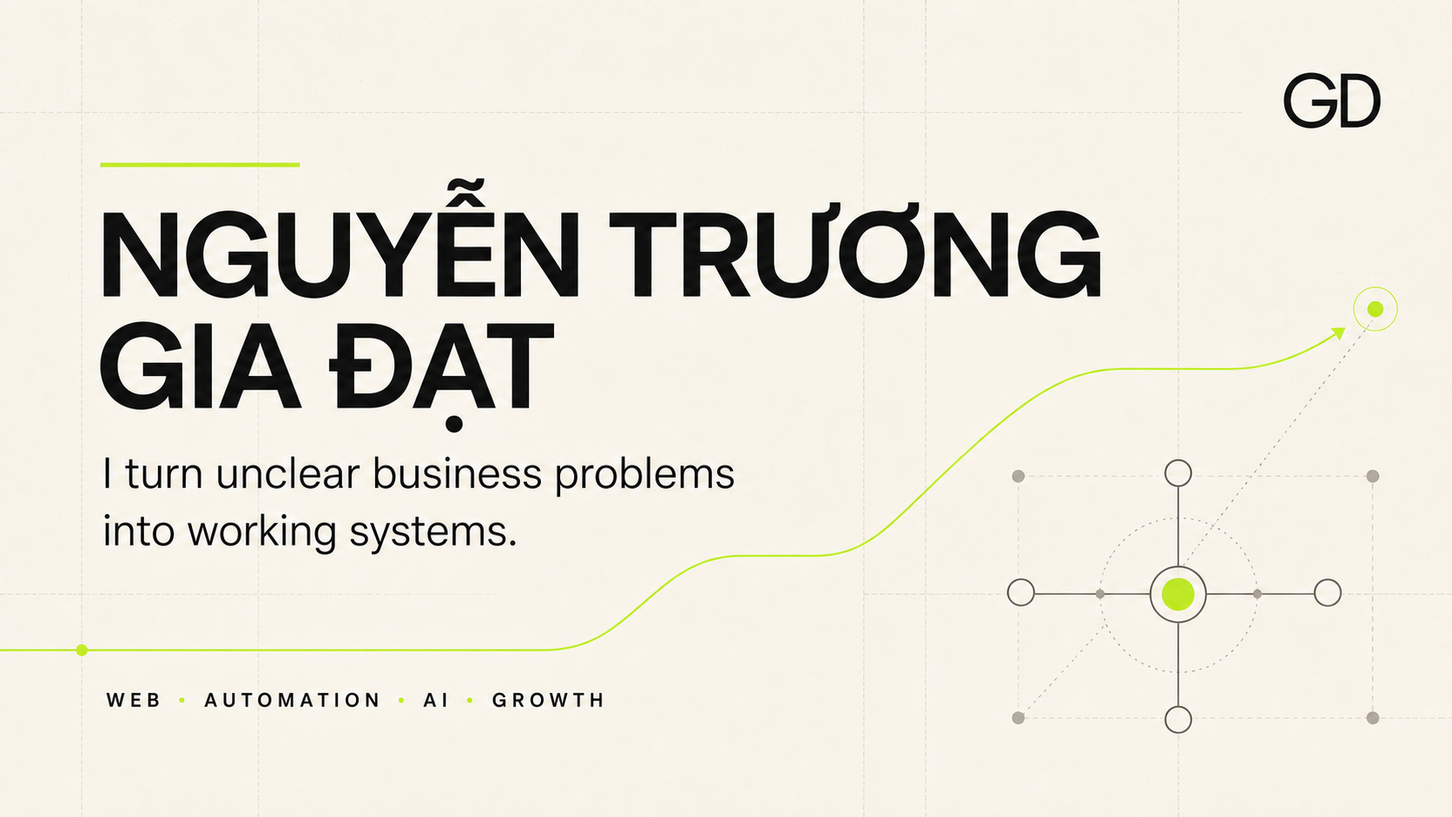
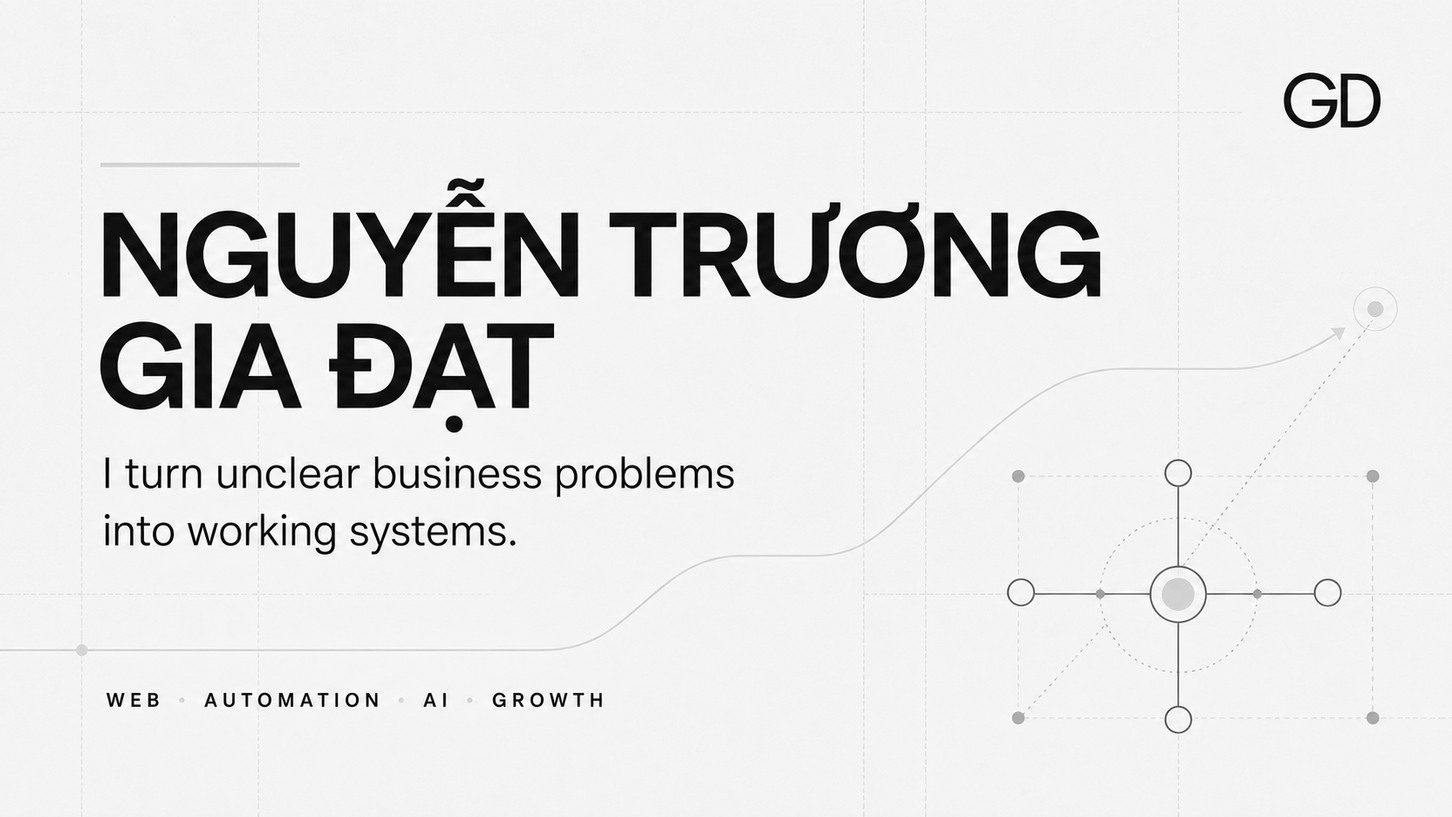
Adopt minimal black and white design

diff --git a/index.html b/index.html
@@ -1,4 +1,4 @@
-<!DOCTYPE html><html lang="en"><head><meta charSet="utf-8"/><meta name="viewport" content="width=device-width, initial-scale=1"/><link rel="stylesheet" href="/nguyen-truong-gia-dat-portfolio/assets/index-DhVf_CTk.css" data-rsc-css-href="/nguyen-truong-gia-dat-portfolio/assets/index-DhVf_CTk.css" data-precedence="vite-rsc/importer-resources"/><link rel="modulepreload" href="/nguyen-truong-gia-dat-portfolio/assets/layout-segment-context-wyK49Q3-.js" crossorigin=""/><link rel="modulepreload" href="/nguyen-truong-gia-dat-portfolio/assets/rolldown-runtime-S-ySWqyJ.js" crossorigin=""/><link rel="modulepreload" href="/nguyen-truong-gia-dat-portfolio/assets/index-BBroVd8O.js" crossorigin=""/><link rel="modulepreload" href="/nguyen-truong-gia-dat-portfolio/assets/framework-DjPHiq1u.js" crossorigin=""/><link rel="modulepreload" href="/nguyen-truong-gia-dat-portfolio/assets/page-Drv4G3Ub.js" crossorigin=""/><title>Nguyễn Trương Gia Đạt | Multidisciplinary Builder</title><meta name="description" content="Web, automation, AI systems and international growth. A portfolio of working systems built from unclear business problems."/><meta property="og:title" content="Nguyễn Trương Gia Đạt | Multidisciplinary Builder"/><meta property="og:description" content="I turn unclear business problems into working systems."/><meta property="og:type" content="website"/><meta property="og:image" content="https://127.0.0.1:3001/nguyen-truong-gia-dat-portfolio/og.png"/><meta property="og:image:width" content="1680"/><meta property="og:image:height" content="945"/><meta property="og:image:alt" content="Nguyễn Trương Gia Đạt portfolio"/><meta name="twitter:card" content="summary_large_image"/><meta name="twitter:title" content="Nguyễn Trương Gia Đạt | Multidisciplinary Builder"/><meta name="twitter:description" content="I turn unclear business problems into working systems."/><meta name="twitter:image" content="https://127.0.0.1:3001/nguyen-truong-gia-dat-portfolio/og.png"/><link rel="shortcut icon" href="/nguyen-truong-gia-dat-portfolio/favicon.svg"/><link rel="icon" href="/nguyen-truong-gia-dat-portfolio/favicon.svg"/><script>self.__VINEXT_RSC_PARAMS__={}</script><script>self.__VINEXT_RSC_NAV__={"pathname":"/","searchParams":[]}</script><link rel="modulepreload" href="/nguyen-truong-gia-dat-portfolio/assets/index-BBroVd8O.js" />
+<!DOCTYPE html><html lang="en"><head><meta charSet="utf-8"/><meta name="viewport" content="width=device-width, initial-scale=1"/><link rel="stylesheet" href="/nguyen-truong-gia-dat-portfolio/assets/index-DS1PXMX2.css" data-rsc-css-href="/nguyen-truong-gia-dat-portfolio/assets/index-DS1PXMX2.css" data-precedence="vite-rsc/importer-resources"/><link rel="modulepreload" href="/nguyen-truong-gia-dat-portfolio/assets/layout-segment-context-wyK49Q3-.js" crossorigin=""/><link rel="modulepreload" href="/nguyen-truong-gia-dat-portfolio/assets/rolldown-runtime-S-ySWqyJ.js" crossorigin=""/><link rel="modulepreload" href="/nguyen-truong-gia-dat-portfolio/assets/index-BBroVd8O.js" crossorigin=""/><link rel="modulepreload" href="/nguyen-truong-gia-dat-portfolio/assets/framework-DjPHiq1u.js" crossorigin=""/><link rel="modulepreload" href="/nguyen-truong-gia-dat-portfolio/assets/page-Drv4G3Ub.js" crossorigin=""/><title>Nguyễn Trương Gia Đạt | Multidisciplinary Builder</title><meta name="description" content="Web, automation, AI systems and international growth. A portfolio of working systems built from unclear business problems."/><meta property="og:title" content="Nguyễn Trương Gia Đạt | Multidisciplinary Builder"/><meta property="og:description" content="I turn unclear business problems into working systems."/><meta property="og:type" content="website"/><meta property="og:image" content="https://127.0.0.1:3001/nguyen-truong-gia-dat-portfolio/og.png"/><meta property="og:image:width" content="1680"/><meta property="og:image:height" content="945"/><meta property="og:image:alt" content="Nguyễn Trương Gia Đạt portfolio"/><meta name="twitter:card" content="summary_large_image"/><meta name="twitter:title" content="Nguyễn Trương Gia Đạt | Multidisciplinary Builder"/><meta name="twitter:description" content="I turn unclear business problems into working systems."/><meta name="twitter:image" content="https://127.0.0.1:3001/nguyen-truong-gia-dat-portfolio/og.png"/><link rel="shortcut icon" href="/nguyen-truong-gia-dat-portfolio/favicon.svg"/><link rel="icon" href="/nguyen-truong-gia-dat-portfolio/favicon.svg"/><script>self.__VINEXT_RSC_PARAMS__={}</script><script>self.__VINEXT_RSC_NAV__={"pathname":"/","searchParams":[]}</script><link rel="modulepreload" href="/nguyen-truong-gia-dat-portfolio/assets/index-BBroVd8O.js" />
 <link rel="preload" href="/nguyen-truong-gia-dat-portfolio/assets/_vinext_fonts/manrope-76eca2803f7f/manrope-37facb2a.woff2" as="font" type="font/woff2" crossorigin />
 <link rel="preload" href="/nguyen-truong-gia-dat-portfolio/assets/_vinext_fonts/manrope-76eca2803f7f/manrope-c9a5f13c.woff2" as="font" type="font/woff2" crossorigin />
 <link rel="preload" href="/nguyen-truong-gia-dat-portfolio/assets/_vinext_fonts/manrope-76eca2803f7f/manrope-f00fa027.woff2" as="font" type="font/woff2" crossorigin />
@@ -129,4 +129,4 @@
 
 .__variable_space_mono_13po1kf { --font-space-mono: 'Space Mono', sans-serif; }
 </style>
-</head><body class="__variable_manrope_0030lut __variable_space_mono_13po1kf"><main><header class="site-header"><a class="monogram" href="#top" aria-label="Nguyễn Trương Gia Đạt home">GD</a><nav aria-label="Primary navigation"><a href="#work">Work</a><a href="#capabilities">Capabilities</a><a href="#approach">Approach</a><a href="#contact">Contact</a></nav><div class="language-control"><button type="button" class="language-button" aria-expanded="false" aria-label="Language">EN<!-- --> <span aria-hidden="true">+</span></button></div></header><section class="hero" id="top"><div class="hero-grid" aria-hidden="true"></div><div class="hero-content reveal"><p class="eyebrow"><span class="status-dot"></span>MULTIDISCIPLINARY BUILDER · VIETNAM</p><h1>I turn unclear business problems into working systems.</h1><p class="hero-intro">I work where business, technology and communication meet, building the websites, automations and AI workflows that move ideas into daily operations.</p><div class="hero-actions"><a class="button button-dark" href="#work">Explore selected work<span aria-hidden="true">↘</span></a><a class="text-link" href="#capabilities">See my capabilities<span aria-hidden="true">↓</span></a></div></div><div class="system-map reveal delay-2" aria-label="Business need to useful system to measurable learning"><div class="system-node"><span>01</span><p>Business need</p><i aria-hidden="true"></i></div><div class="system-node"><span>02</span><p>Useful system</p><i aria-hidden="true"></i></div><div class="system-node"><span>03</span><p>Measurable learning</p></div></div><a class="scroll-hint" href="#profile"><span aria-hidden="true"></span>Scroll to explore</a></section><section class="profile section" id="profile"><div class="section-label">PROFILE</div><div class="profile-copy"><h2>Not one title. One consistent way of creating value.</h2><p>My range is the point. I can understand a commercial goal, map the system behind it, learn the tools required and carry the work through to a usable result.</p><div class="tag-list"><span>Web products</span><span>Automation</span><span>AI systems</span><span>International growth</span><span>Technical content</span></div></div><div class="profile-mark" aria-hidden="true"><span>G</span><span>D</span></div></section><section class="work section" id="work"><div class="section-heading"><p class="section-label">INDEPENDENT WORK</p><h2>Evidence over adjectives.</h2><p>A selection of independent systems and experiments that show how I think, learn and build.</p></div><div class="work-list"><article class="work-item"><div class="work-number">01</div><div class="work-main"><h3>A multilingual digital experience that speaks clearly</h3><p>Designed a responsive multilingual experience that organizes complex information, supports content discovery and creates a clear path from first visit to meaningful action.</p><div class="work-skills"><span>Web strategy</span><span>Information architecture</span><span>Localization</span><span>SEO</span><span>Performance</span></div></div><div class="work-result"><span>OUTCOME</span><p>Complex information becomes clear, navigable and useful across languages and devices.</p><small>Independent case study · details coming next</small></div></article><article class="work-item"><div class="work-number">02</div><div class="work-main"><h3>Lead intelligence as a repeatable workflow</h3><p>Designed workflows for discovering, evaluating and organizing international research, then routing the right context across Notion and n8n with clear states and safety checks.</p><div class="work-skills"><span>n8n</span><span>Notion</span><span>Research</span><span>Data enrichment</span><span>Workflow logic</span></div></div><div class="work-result"><span>OUTCOME</span><p>Research and follow-up become a system, not a collection of one-off tasks.</p><small>Private system · walkthrough available</small></div></article><article class="work-item"><div class="work-number">03</div><div class="work-main"><h3>AI skills built around real work</h3><p>Created reusable AI workflows for research, verification, content operations and knowledge-backed learning, with structured prompts, approval states, checkpoints and recovery paths.</p><div class="work-skills"><span>AI workflow</span><span>Prompt systems</span><span>Knowledge design</span><span>Quality gates</span><span>Notion AI</span></div></div><div class="work-result"><span>OUTCOME</span><p>AI becomes a dependable operating layer instead of an isolated chat window.</p><small>Private system · walkthrough available</small></div></article><article class="work-item"><div class="work-number">04</div><div class="work-main"><h3>Technical stories people can understand</h3><p>Translated industrial products and operational knowledge into multilingual documents, product videos, visual dashboards and content that works across cultures and channels.</p><div class="work-skills"><span>Product video</span><span>Technical writing</span><span>Localization</span><span>Dashboard</span><span>Content systems</span></div></div><div class="work-result"><span>OUTCOME</span><p>Complex information becomes easier to trust, share and act on.</p><small>Selected samples coming next</small></div></article></div></section><section class="capabilities section" id="capabilities"><div class="section-heading compact"><p class="section-label">CAPABILITIES</p><h2>From first question to working result.</h2></div><div class="capability-grid"><article><span>01</span><h3>Product &amp; Web</h3><p>Discovery, structure, responsive interfaces, multilingual systems, SEO and performance.</p></article><article><span>02</span><h3>Automation</h3><p>Workflow mapping, n8n, Notion, routing logic, error handling and handoff.</p></article><article><span>03</span><h3>AI Systems</h3><p>Reusable AI skills, prompt architecture, knowledge workflows, evaluation and recovery.</p></article><article><span>04</span><h3>Growth Operations</h3><p>International prospect research, qualification, outreach systems and market learning.</p></article><article><span>05</span><h3>Content &amp; Localization</h3><p>Product storytelling, video, technical documents and multilingual communication.</p></article><article><span>06</span><h3>Systems Thinking</h3><p>Connecting tools, people and information into a process that can keep improving.</p></article></div><div class="tool-strip"><p>TOOLS I USE AS BUILDING BLOCKS</p><div><span>Notion</span><span>n8n</span><span>ChatGPT</span><span>Codex</span><span>Netlify</span><span>Excel</span><span>CapCut</span><span>Canva</span><span>Blender</span></div></div></section><section class="approach section" id="approach"><div class="approach-intro"><p class="section-label">HOW I WORK</p><h2>Curious enough to learn. Practical enough to ship.</h2></div><div class="steps"><article><span>01</span><div><h3>Find the real problem</h3><p>Start with the outcome, constraints and people involved before choosing a tool.</p></div></article><article><span>02</span><div><h3>Map the system</h3><p>Make the information, decisions, handoffs and failure points visible.</p></div></article><article><span>03</span><div><h3>Build the smallest useful version</h3><p>Create something real enough to use, observe and improve quickly.</p></div></article><article><span>04</span><div><h3>Make it repeatable</h3><p>Document the logic, add safeguards and leave the system easier to operate.</p></div></article></div><blockquote>I do not need to know every answer at the start. I need to know how to find the right answer and turn it into something useful.</blockquote></section><section class="contact section" id="contact"><p class="section-label">LET&#x27;S TALK</p><h2>Bring me the problem that does not fit neatly into one job description.</h2><p class="contact-body">I am open to global opportunities, ambitious teams and projects that need someone who can connect strategy with hands-on execution.</p><div class="contact-actions"><span class="pending-contact"><i aria-hidden="true"></i>Contact details will be added in the next update</span><a class="button button-light" href="#work">Review selected work<span aria-hidden="true">↑</span></a></div><footer><div class="footer-name"><strong>NGUYỄN TRƯƠNG GIA ĐẠT</strong><span>Designed as a living proof of work.</span></div><span>© <!-- -->2026</span><a href="#top">TOP ↑</a></footer></section></main><script id="_R_">import("/nguyen-truong-gia-dat-portfolio/assets/index-BBroVd8O.js")</script></body></html><script>self.__VINEXT_RSC_CHUNKS__=self.__VINEXT_RSC_CHUNKS__||[];self.__VINEXT_RSC_CHUNKS__.push("2:I[\"8c0f216c4604\",[],\"Children\",1]\n3:I[\"15c18cfaeeff\",[],\"LayoutSegmentProvider\",1]\n4:I[\"8c0f216c4604\",[],\"Slot\",1]\n5:I[\"593f344dc510\",[],\"RedirectBoundary\",1]\n:HL[\"/nguyen-truong-gia-dat-portfolio/assets/index-DhVf_CTk.css\",\"style\"]\n")</script><script>self.__VINEXT_RSC_CHUNKS__=self.__VINEXT_RSC_CHUNKS__||[];self.__VINEXT_RSC_CHUNKS__.push("0:{\"__route\":\"route:/\",\"__interceptionContext\":null,\"__layoutIds\":[\"layout:/\"],\"__rootLayout\":\"/\",\"page:/\":\"$L1\",\"layout:/\":[[[[\"$\",\"link\",\"css:/nguyen-truong-gia-dat-portfolio/assets/index-DhVf_CTk.css\",{\"rel\":\"stylesheet\",\"precedence\":\"vite-rsc/importer-resources\",\"href\":\"/nguyen-truong-gia-dat-portfolio/assets/index-DhVf_CTk.css\",\"data-rsc-css-href\":\"/nguyen-truong-gia-dat-portfolio/assets/index-DhVf_CTk.css\"}],\"$undefined\"],[\"$\",\"html\",null,{\"lang\":\"en\",\"children\":[\"$\",\"body\",null,{\"className\":\"__variable_manrope_0030lut __variable_space_mono_13po1kf\",\"children\":[\"$\",\"$L2\",null,{}]}]}]],null],\"route:/\":[[[\"$\",\"meta\",null,{\"charSet\":\"utf-8\"}],[[\"$\",\"title\",\"0\",{\"children\":\"Nguyễn Trương Gia Đạt | Multidisciplinary Builder\"}],[\"$\",\"meta\",\"1\",{\"name\":\"description\",\"content\":\"Web, automation, AI systems and international growth. A portfolio of working systems built from unclear business problems.\"}],[\"$\",\"meta\",\"2\",{\"property\":\"og:title\",\"content\":\"Nguyễn Trương Gia Đạt | Multidisciplinary Builder\"}],[\"$\",\"meta\",\"3\",{\"property\":\"og:description\",\"content\":\"I turn unclear business problems into working systems.\"}],[\"$\",\"meta\",\"4\",{\"property\":\"og:type\",\"content\":\"website\"}],[\"$\",\"meta\",\"5\",{\"property\":\"og:image\",\"content\":\"https://127.0.0.1:3001/nguyen-truong-gia-dat-portfolio/og.png\"}],[\"$\",\"meta\",\"6\",{\"property\":\"og:image:width\",\"content\":\"1680\"}],[\"$\",\"meta\",\"7\",{\"property\":\"og:image:height\",\"content\":\"945\"}],[\"$\",\"meta\",\"8\",{\"property\":\"og:image:alt\",\"content\":\"Nguyễn Trương Gia Đạt portfolio\"}],[\"$\",\"meta\",\"9\",{\"name\":\"twitter:card\",\"content\":\"summary_large_image\"}],[\"$\",\"meta\",\"10\",{\"name\":\"twitter:title\",\"content\":\"Nguyễn Trương Gia Đạt | Multidisciplinary Builder\"}],[\"$\",\"meta\",\"11\",{\"name\":\"twitter:description\",\"content\":\"I turn unclear business problems into working systems.\"}],[\"$\",\"meta\",\"12\",{\"name\":\"twitter:image\",\"content\":\"https://127.0.0.1:3001/nguyen-truong-gia-dat-portfolio/og.png\"}],[\"$\",\"link\",\"13\",{\"rel\":\"shortcut icon\",\"href\":\"/nguyen-truong-gia-dat-portfolio/favicon.svg\"}],[\"$\",\"link\",\"14\",{\"rel\":\"icon\",\"href\":\"/nguyen-truong-gia-dat-portfolio/favicon.svg\"}]],[[\"$\",\"meta\",\"0\",{\"name\":\"viewport\",\"content\":\"width=device-width, initial-scale=1\"}]]],[\"$\",\"$L3\",null,{\"segmentMap\":{\"children\":[]},\"children\":[\"$\",\"$L4\",null,{\"id\":\"layout:/\",\"parallelSlots\":\"$undefined\",\"children\":[\"$\",\"$L5\",null,{\"children\":[\"$\",\"$L3\",null,{\"segmentMap\":{\"children\":[]},\"children\":[\"$\",\"$L4\",null,{\"id\":\"page:/\"}]}]}]}]}]],\"__layoutFlags\":{\"layout:/\":\"s\"},\"__artifactCompatibility\":{\"schemaVersion\":1,\"graphVersion\":\"app-route-graph:4uhn5s1wvoptc\",\"deploymentVersion\":\"7c49f27f-f140-4821-b58b-c3c265be1d37\",\"appElementsSchemaVersion\":1,\"rscPayloadSchemaVersion\":1,\"rootBoundaryId\":\"/\",\"renderEpoch\":null}}\n")</script><script>self.__VINEXT_RSC_CHUNKS__=self.__VINEXT_RSC_CHUNKS__||[];self.__VINEXT_RSC_CHUNKS__.push("6:I[\"6efdf509a785\",[],\"default\",1]\n1:[\"$\",\"$L6\",null,{\"params\":\"$@7\",\"searchParams\":\"$@8\"}]\n")</script><script>self.__VINEXT_RSC_CHUNKS__=self.__VINEXT_RSC_CHUNKS__||[];self.__VINEXT_RSC_CHUNKS__.push("7:{}\n8:{}\n")</script><script>self.__VINEXT_RSC_DONE__=true</script>
+</head><body class="__variable_manrope_0030lut __variable_space_mono_13po1kf"><main><header class="site-header"><a class="monogram" href="#top" aria-label="Nguyễn Trương Gia Đạt home">GD</a><nav aria-label="Primary navigation"><a href="#work">Work</a><a href="#capabilities">Capabilities</a><a href="#approach">Approach</a><a href="#contact">Contact</a></nav><div class="language-control"><button type="button" class="language-button" aria-expanded="false" aria-label="Language">EN<!-- --> <span aria-hidden="true">+</span></button></div></header><section class="hero" id="top"><div class="hero-grid" aria-hidden="true"></div><div class="hero-content reveal"><p class="eyebrow"><span class="status-dot"></span>MULTIDISCIPLINARY BUILDER · VIETNAM</p><h1>I turn unclear business problems into working systems.</h1><p class="hero-intro">I work where business, technology and communication meet, building the websites, automations and AI workflows that move ideas into daily operations.</p><div class="hero-actions"><a class="button button-dark" href="#work">Explore selected work<span aria-hidden="true">↘</span></a><a class="text-link" href="#capabilities">See my capabilities<span aria-hidden="true">↓</span></a></div></div><div class="system-map reveal delay-2" aria-label="Business need to useful system to measurable learning"><div class="system-node"><span>01</span><p>Business need</p><i aria-hidden="true"></i></div><div class="system-node"><span>02</span><p>Useful system</p><i aria-hidden="true"></i></div><div class="system-node"><span>03</span><p>Measurable learning</p></div></div><a class="scroll-hint" href="#profile"><span aria-hidden="true"></span>Scroll to explore</a></section><section class="profile section" id="profile"><div class="section-label">PROFILE</div><div class="profile-copy"><h2>Not one title. One consistent way of creating value.</h2><p>My range is the point. I can understand a commercial goal, map the system behind it, learn the tools required and carry the work through to a usable result.</p><div class="tag-list"><span>Web products</span><span>Automation</span><span>AI systems</span><span>International growth</span><span>Technical content</span></div></div><div class="profile-mark" aria-hidden="true"><span>G</span><span>D</span></div></section><section class="work section" id="work"><div class="section-heading"><p class="section-label">INDEPENDENT WORK</p><h2>Evidence over adjectives.</h2><p>A selection of independent systems and experiments that show how I think, learn and build.</p></div><div class="work-list"><article class="work-item"><div class="work-number">01</div><div class="work-main"><h3>A multilingual digital experience that speaks clearly</h3><p>Designed a responsive multilingual experience that organizes complex information, supports content discovery and creates a clear path from first visit to meaningful action.</p><div class="work-skills"><span>Web strategy</span><span>Information architecture</span><span>Localization</span><span>SEO</span><span>Performance</span></div></div><div class="work-result"><span>OUTCOME</span><p>Complex information becomes clear, navigable and useful across languages and devices.</p><small>Independent case study · details coming next</small></div></article><article class="work-item"><div class="work-number">02</div><div class="work-main"><h3>Lead intelligence as a repeatable workflow</h3><p>Designed workflows for discovering, evaluating and organizing international research, then routing the right context across Notion and n8n with clear states and safety checks.</p><div class="work-skills"><span>n8n</span><span>Notion</span><span>Research</span><span>Data enrichment</span><span>Workflow logic</span></div></div><div class="work-result"><span>OUTCOME</span><p>Research and follow-up become a system, not a collection of one-off tasks.</p><small>Private system · walkthrough available</small></div></article><article class="work-item"><div class="work-number">03</div><div class="work-main"><h3>AI skills built around real work</h3><p>Created reusable AI workflows for research, verification, content operations and knowledge-backed learning, with structured prompts, approval states, checkpoints and recovery paths.</p><div class="work-skills"><span>AI workflow</span><span>Prompt systems</span><span>Knowledge design</span><span>Quality gates</span><span>Notion AI</span></div></div><div class="work-result"><span>OUTCOME</span><p>AI becomes a dependable operating layer instead of an isolated chat window.</p><small>Private system · walkthrough available</small></div></article><article class="work-item"><div class="work-number">04</div><div class="work-main"><h3>Technical stories people can understand</h3><p>Translated industrial products and operational knowledge into multilingual documents, product videos, visual dashboards and content that works across cultures and channels.</p><div class="work-skills"><span>Product video</span><span>Technical writing</span><span>Localization</span><span>Dashboard</span><span>Content systems</span></div></div><div class="work-result"><span>OUTCOME</span><p>Complex information becomes easier to trust, share and act on.</p><small>Selected samples coming next</small></div></article></div></section><section class="capabilities section" id="capabilities"><div class="section-heading compact"><p class="section-label">CAPABILITIES</p><h2>From first question to working result.</h2></div><div class="capability-grid"><article><span>01</span><h3>Product &amp; Web</h3><p>Discovery, structure, responsive interfaces, multilingual systems, SEO and performance.</p></article><article><span>02</span><h3>Automation</h3><p>Workflow mapping, n8n, Notion, routing logic, error handling and handoff.</p></article><article><span>03</span><h3>AI Systems</h3><p>Reusable AI skills, prompt architecture, knowledge workflows, evaluation and recovery.</p></article><article><span>04</span><h3>Growth Operations</h3><p>International prospect research, qualification, outreach systems and market learning.</p></article><article><span>05</span><h3>Content &amp; Localization</h3><p>Product storytelling, video, technical documents and multilingual communication.</p></article><article><span>06</span><h3>Systems Thinking</h3><p>Connecting tools, people and information into a process that can keep improving.</p></article></div><div class="tool-strip"><p>TOOLS I USE AS BUILDING BLOCKS</p><div><span>Notion</span><span>n8n</span><span>ChatGPT</span><span>Codex</span><span>Netlify</span><span>Excel</span><span>CapCut</span><span>Canva</span><span>Blender</span></div></div></section><section class="approach section" id="approach"><div class="approach-intro"><p class="section-label">HOW I WORK</p><h2>Curious enough to learn. Practical enough to ship.</h2></div><div class="steps"><article><span>01</span><div><h3>Find the real problem</h3><p>Start with the outcome, constraints and people involved before choosing a tool.</p></div></article><article><span>02</span><div><h3>Map the system</h3><p>Make the information, decisions, handoffs and failure points visible.</p></div></article><article><span>03</span><div><h3>Build the smallest useful version</h3><p>Create something real enough to use, observe and improve quickly.</p></div></article><article><span>04</span><div><h3>Make it repeatable</h3><p>Document the logic, add safeguards and leave the system easier to operate.</p></div></article></div><blockquote>I do not need to know every answer at the start. I need to know how to find the right answer and turn it into something useful.</blockquote></section><section class="contact section" id="contact"><p class="section-label">LET&#x27;S TALK</p><h2>Bring me the problem that does not fit neatly into one job description.</h2><p class="contact-body">I am open to global opportunities, ambitious teams and projects that need someone who can connect strategy with hands-on execution.</p><div class="contact-actions"><span class="pending-contact"><i aria-hidden="true"></i>Contact details will be added in the next update</span><a class="button button-light" href="#work">Review selected work<span aria-hidden="true">↑</span></a></div><footer><div class="footer-name"><strong>NGUYỄN TRƯƠNG GIA ĐẠT</strong><span>Designed as a living proof of work.</span></div><span>© <!-- -->2026</span><a href="#top">TOP ↑</a></footer></section></main><script id="_R_">import("/nguyen-truong-gia-dat-portfolio/assets/index-BBroVd8O.js")</script></body></html><script>self.__VINEXT_RSC_CHUNKS__=self.__VINEXT_RSC_CHUNKS__||[];self.__VINEXT_RSC_CHUNKS__.push("2:I[\"8c0f216c4604\",[],\"Children\",1]\n3:I[\"15c18cfaeeff\",[],\"LayoutSegmentProvider\",1]\n4:I[\"8c0f216c4604\",[],\"Slot\",1]\n5:I[\"593f344dc510\",[],\"RedirectBoundary\",1]\n:HL[\"/nguyen-truong-gia-dat-portfolio/assets/index-DS1PXMX2.css\",\"style\"]\n")</script><script>self.__VINEXT_RSC_CHUNKS__=self.__VINEXT_RSC_CHUNKS__||[];self.__VINEXT_RSC_CHUNKS__.push("0:{\"__route\":\"route:/\",\"__interceptionContext\":null,\"__layoutIds\":[\"layout:/\"],\"__rootLayout\":\"/\",\"page:/\":\"$L1\",\"layout:/\":[[[[\"$\",\"link\",\"css:/nguyen-truong-gia-dat-portfolio/assets/index-DS1PXMX2.css\",{\"rel\":\"stylesheet\",\"precedence\":\"vite-rsc/importer-resources\",\"href\":\"/nguyen-truong-gia-dat-portfolio/assets/index-DS1PXMX2.css\",\"data-rsc-css-href\":\"/nguyen-truong-gia-dat-portfolio/assets/index-DS1PXMX2.css\"}],\"$undefined\"],[\"$\",\"html\",null,{\"lang\":\"en\",\"children\":[\"$\",\"body\",null,{\"className\":\"__variable_manrope_0030lut __variable_space_mono_13po1kf\",\"children\":[\"$\",\"$L2\",null,{}]}]}]],null],\"route:/\":[[[\"$\",\"meta\",null,{\"charSet\":\"utf-8\"}],[[\"$\",\"title\",\"0\",{\"children\":\"Nguyễn Trương Gia Đạt | Multidisciplinary Builder\"}],[\"$\",\"meta\",\"1\",{\"name\":\"description\",\"content\":\"Web, automation, AI systems and international growth. A portfolio of working systems built from unclear business problems.\"}],[\"$\",\"meta\",\"2\",{\"property\":\"og:title\",\"content\":\"Nguyễn Trương Gia Đạt | Multidisciplinary Builder\"}],[\"$\",\"meta\",\"3\",{\"property\":\"og:description\",\"content\":\"I turn unclear business problems into working systems.\"}],[\"$\",\"meta\",\"4\",{\"property\":\"og:type\",\"content\":\"website\"}],[\"$\",\"meta\",\"5\",{\"property\":\"og:image\",\"content\":\"https://127.0.0.1:3001/nguyen-truong-gia-dat-portfolio/og.png\"}],[\"$\",\"meta\",\"6\",{\"property\":\"og:image:width\",\"content\":\"1680\"}],[\"$\",\"meta\",\"7\",{\"property\":\"og:image:height\",\"content\":\"945\"}],[\"$\",\"meta\",\"8\",{\"property\":\"og:image:alt\",\"content\":\"Nguyễn Trương Gia Đạt portfolio\"}],[\"$\",\"meta\",\"9\",{\"name\":\"twitter:card\",\"content\":\"summary_large_image\"}],[\"$\",\"meta\",\"10\",{\"name\":\"twitter:title\",\"content\":\"Nguyễn Trương Gia Đạt | Multidisciplinary Builder\"}],[\"$\",\"meta\",\"11\",{\"name\":\"twitter:description\",\"content\":\"I turn unclear business problems into working systems.\"}],[\"$\",\"meta\",\"12\",{\"name\":\"twitter:image\",\"content\":\"https://127.0.0.1:3001/nguyen-truong-gia-dat-portfolio/og.png\"}],[\"$\",\"link\",\"13\",{\"rel\":\"shortcut icon\",\"href\":\"/nguyen-truong-gia-dat-portfolio/favicon.svg\"}],[\"$\",\"link\",\"14\",{\"rel\":\"icon\",\"href\":\"/nguyen-truong-gia-dat-portfolio/favicon.svg\"}]],[[\"$\",\"meta\",\"0\",{\"name\":\"viewport\",\"content\":\"width=device-width, initial-scale=1\"}]]],[\"$\",\"$L3\",null,{\"segmentMap\":{\"children\":[]},\"children\":[\"$\",\"$L4\",null,{\"id\":\"layout:/\",\"parallelSlots\":\"$undefined\",\"children\":[\"$\",\"$L5\",null,{\"children\":[\"$\",\"$L3\",null,{\"segmentMap\":{\"children\":[]},\"children\":[\"$\",\"$L4\",null,{\"id\":\"page:/\"}]}]}]}]}]],\"__layoutFlags\":{\"layout:/\":\"s\"},\"__artifactCompatibility\":{\"schemaVersion\":1,\"graphVersion\":\"app-route-graph:4uhn5s1wvoptc\",\"deploymentVersion\":\"36ba3c37-deed-428f-a783-380d351935eb\",\"appElementsSchemaVersion\":1,\"rscPayloadSchemaVersion\":1,\"rootBoundaryId\":\"/\",\"renderEpoch\":null}}\n")</script><script>self.__VINEXT_RSC_CHUNKS__=self.__VINEXT_RSC_CHUNKS__||[];self.__VINEXT_RSC_CHUNKS__.push("6:I[\"6efdf509a785\",[],\"default\",1]\n1:[\"$\",\"$L6\",null,{\"params\":\"$@7\",\"searchParams\":\"$@8\"}]\n")</script><script>self.__VINEXT_RSC_CHUNKS__=self.__VINEXT_RSC_CHUNKS__||[];self.__VINEXT_RSC_CHUNKS__.push("7:{}\n8:{}\n")</script><script>self.__VINEXT_RSC_DONE__=true</script>

diff --git a/assets/index-DS1PXMX2.css b/assets/index-DS1PXMX2.css
@@ -1,0 +1,2 @@
+/*! tailwindcss v4.2.1 | MIT License | https://tailwindcss.com */
+@layer theme{:root,:host{--font-sans:ui-sans-serif, system-ui, sans-serif, "Apple Color Emoji", "Segoe UI Emoji", "Segoe UI Symbol", "Noto Color Emoji";--font-mono:ui-monospace, SFMono-Regular, Menlo, Monaco, Consolas, "Liberation Mono", "Courier New", monospace;--spacing:.25rem;--default-font-family:var(--font-sans);--default-mono-font-family:var(--font-mono)}}@layer base{*,:after,:before,::backdrop{box-sizing:border-box;border:0 solid;margin:0;padding:0}::file-selector-button{box-sizing:border-box;border:0 solid;margin:0;padding:0}html,:host{-webkit-text-size-adjust:100%;tab-size:4;line-height:1.5;font-family:var(--default-font-family,ui-sans-serif, system-ui, sans-serif, "Apple Color Emoji", "Segoe UI Emoji", "Segoe UI Symbol", "Noto Color Emoji");font-feature-settings:var(--default-font-feature-settings,normal);font-variation-settings:var(--default-font-variation-settings,normal);-webkit-tap-highlight-color:transparent}hr{height:0;color:inherit;border-top-width:1px}abbr:where([title]){-webkit-text-decoration:underline dotted;text-decoration:underline dotted}h1,h2,h3,h4,h5,h6{font-size:inherit;font-weight:inherit}a{color:inherit;-webkit-text-decoration:inherit;-webkit-text-decoration:inherit;-webkit-text-decoration:inherit;-webkit-text-decoration:inherit;text-decoration:inherit}b,strong{font-weight:bolder}code,kbd,samp,pre{font-family:var(--default-mono-font-family,ui-monospace, SFMono-Regular, Menlo, Monaco, Consolas, "Liberation Mono", "Courier New", monospace);font-feature-settings:var(--default-mono-font-feature-settings,normal);font-variation-settings:var(--default-mono-font-variation-settings,normal);font-size:1em}small{font-size:80%}sub,sup{vertical-align:baseline;font-size:75%;line-height:0;position:relative}sub{bottom:-.25em}sup{top:-.5em}table{text-indent:0;border-color:inherit;border-collapse:collapse}:-moz-focusring{outline:auto}progress{vertical-align:baseline}summary{display:list-item}ol,ul,menu{list-style:none}img,svg,video,canvas,audio,iframe,embed,object{vertical-align:middle;display:block}img,video{max-width:100%;height:auto}button,input,select,optgroup,textarea{font:inherit;font-feature-settings:inherit;font-variation-settings:inherit;letter-spacing:inherit;color:inherit;opacity:1;background-color:#0000;border-radius:0}::file-selector-button{font:inherit;font-feature-settings:inherit;font-variation-settings:inherit;letter-spacing:inherit;color:inherit;opacity:1;background-color:#0000;border-radius:0}:where(select:is([multiple],[size])) optgroup{font-weight:bolder}:where(select:is([multiple],[size])) optgroup option{padding-inline-start:20px}::file-selector-button{margin-inline-end:4px}::placeholder{opacity:1}@supports (not ((-webkit-appearance:-apple-pay-button))) or (contain-intrinsic-size:1px){::placeholder{color:currentColor}@supports (color:color-mix(in lab, red, red)){::placeholder{color:color-mix(in oklab, currentcolor 50%, transparent)}}}textarea{resize:vertical}::-webkit-search-decoration{-webkit-appearance:none}::-webkit-date-and-time-value{min-height:1lh;text-align:inherit}::-webkit-datetime-edit{display:inline-flex}::-webkit-datetime-edit-fields-wrapper{padding:0}::-webkit-datetime-edit{padding-block:0}::-webkit-datetime-edit-year-field{padding-block:0}::-webkit-datetime-edit-month-field{padding-block:0}::-webkit-datetime-edit-day-field{padding-block:0}::-webkit-datetime-edit-hour-field{padding-block:0}::-webkit-datetime-edit-minute-field{padding-block:0}::-webkit-datetime-edit-second-field{padding-block:0}::-webkit-datetime-edit-millisecond-field{padding-block:0}::-webkit-datetime-edit-meridiem-field{padding-block:0}::-webkit-calendar-picker-indicator{line-height:1}:-moz-ui-invalid{box-shadow:none}button,input:where([type=button],[type=reset],[type=submit]){appearance:button}::file-selector-button{appearance:button}::-webkit-inner-spin-button{height:auto}::-webkit-outer-spin-button{height:auto}[hidden]:where(:not([hidden=until-found])){display:none!important}}@layer components;@layer utilities{.relative{position:relative}.start{inset-inline-start:var(--spacing)}.table{display:table}.delay-2{transition-delay:2ms}}:root{--ink:#050505;--paper:#fff;--paper-deep:#f5f5f5;--muted:#686868;--line:#05050526;--lime:#050505;--white:#fff}*{box-sizing:border-box}html{scroll-behavior:smooth}body{background:var(--paper);color:var(--ink);font-family:var(--font-manrope), sans-serif;-webkit-font-smoothing:antialiased;margin:0}a{color:inherit;text-decoration:none}button{color:inherit;font:inherit}::selection{background:var(--lime);color:var(--ink)}.site-header{z-index:50;-webkit-backdrop-filter:blur(18px);backdrop-filter:blur(18px);background:#ffffffe6;border-bottom:1px solid #0505051a;grid-template-columns:1fr auto 1fr;align-items:center;height:72px;padding:0 3.5vw;display:grid;position:fixed;top:0;left:0;right:0}.monogram{letter-spacing:-.05em;font-size:1.05rem;font-weight:800}.site-header nav{gap:clamp(20px,3vw,48px);display:flex}.site-header nav a,.language-button{font-family:var(--font-space-mono), monospace;letter-spacing:.08em;text-transform:uppercase;font-size:.68rem}.site-header nav a{position:relative}.site-header nav a:after{content:"";background:var(--ink);height:2px;transition:right .24s;position:absolute;bottom:-7px;left:0;right:100%}.site-header nav a:hover:after{right:0}.language-control{justify-self:end;position:relative}.language-button{cursor:pointer;background:0 0;border:0;align-items:center;gap:10px;display:flex}.language-button span{border:1px solid var(--ink);border-radius:50%;place-items:center;width:20px;height:20px;display:grid}.language-menu{background:var(--ink);width:250px;color:var(--paper);padding:12px;position:absolute;top:38px;right:0;box-shadow:0 18px 60px #05050533}.language-menu button{text-align:left;cursor:pointer;background:0 0;border:0;width:100%;padding:11px 12px;display:block}.language-menu button:hover,.language-menu button.active{background:var(--paper);color:var(--ink)}.language-menu p{color:#aaa;margin:12px;font-size:.68rem;line-height:1.5}.hero{grid-template-columns:minmax(0,1.45fr) minmax(320px,.55fr);gap:6vw;min-height:100svh;padding:clamp(150px,20vh,220px) 7vw 80px;display:grid;position:relative;overflow:hidden}.hero-grid{opacity:.14;background-image:linear-gradient(var(--line) 1px, transparent 1px), linear-gradient(90deg, var(--line) 1px, transparent 1px);background-size:8.333vw 8.333vw;position:absolute;inset:72px 0 0;-webkit-mask-image:linear-gradient(#000,#0000 82%);mask-image:linear-gradient(#000,#0000 82%)}.hero:before{display:none}.hero-content{z-index:2;align-self:center;max-width:980px;position:relative}.eyebrow,.section-label{font-family:var(--font-space-mono), monospace;letter-spacing:.13em;align-items:center;gap:10px;margin:0 0 28px;font-size:.68rem;line-height:1.4;display:flex}.status-dot{background:var(--ink);border-radius:50%;width:8px;height:8px;box-shadow:0 0 0 5px #05050517}h1{letter-spacing:-.07em;max-width:1020px;margin:0;font-size:clamp(3.4rem,7.5vw,8.2rem);font-weight:670;line-height:.94}.hero-intro{color:#464646;max-width:690px;margin:42px 0 0;font-size:clamp(1.05rem,1.45vw,1.35rem);line-height:1.65}.hero-actions{align-items:center;gap:32px;margin-top:40px;display:flex}.button{justify-content:space-between;align-items:center;gap:28px;min-height:54px;padding:0 22px;font-size:.82rem;font-weight:700;transition:transform .2s,background .2s;display:inline-flex}.button:hover{transform:translateY(-3px)}.button-dark{background:var(--ink);color:var(--paper)}.button-dark:hover{background:#292929}.text-link{border-bottom:1px solid var(--ink);gap:8px;padding:9px 0;font-size:.82rem;font-weight:700;display:inline-flex}.system-map{z-index:2;align-self:center;position:relative}.system-node{grid-template-columns:42px 1fr;align-items:center;gap:14px;min-height:94px;padding:18px 0;display:grid;position:relative}.system-node>span{border:1px solid var(--ink);background:var(--paper);width:42px;height:42px;font-family:var(--font-space-mono), monospace;border-radius:50%;place-items:center;font-size:.66rem;display:grid}.system-node p{max-width:160px;margin:0;font-size:.82rem;font-weight:700;line-height:1.35}.system-node i{background:var(--ink);width:1px;height:54px;position:absolute;top:67px;left:20px}.system-node:last-child>span{background:var(--ink);color:var(--paper)}.scroll-hint{z-index:2;font-family:var(--font-space-mono), monospace;letter-spacing:.12em;text-transform:uppercase;align-items:center;gap:14px;font-size:.62rem;display:flex;position:absolute;bottom:30px;left:7vw}.scroll-hint span{background:var(--ink);width:34px;height:1px}.section{padding:clamp(90px,12vw,180px) 7vw}.profile{background:var(--ink);color:var(--paper);grid-template-columns:.35fr 1.2fr .45fr;gap:6vw;display:grid;position:relative;overflow:hidden}.profile-copy{z-index:2;max-width:850px;position:relative}.profile h2,.section-heading h2,.approach h2,.contact h2{letter-spacing:-.055em;margin:0;font-size:clamp(2.5rem,5vw,6rem);font-weight:620;line-height:1.03}.profile-copy>p{color:#b8b8b8;max-width:710px;margin:38px 0 0;font-size:clamp(1rem,1.4vw,1.24rem);line-height:1.75}.tag-list{flex-wrap:wrap;gap:10px;margin-top:40px;display:flex}.tag-list span{font-family:var(--font-space-mono), monospace;letter-spacing:.05em;border:1px solid #ffffff40;padding:9px 13px;font-size:.62rem}.profile-mark{letter-spacing:-.15em;color:var(--paper);opacity:.1;align-self:center;font-size:clamp(8rem,18vw,19rem);line-height:.58;position:relative;transform:rotate(-8deg)}.profile-mark span{display:block}.profile-mark span:last-child{margin-left:.36em}.work{background:var(--white)}.section-heading{grid-template-columns:.42fr 1.1fr .55fr;align-items:start;gap:5vw;margin-bottom:clamp(70px,9vw,130px);display:grid}.section-heading>p:last-child{color:var(--muted);margin:8px 0 0;font-size:.92rem;line-height:1.7}.work-list{border-top:1px solid var(--line)}.work-item{border-bottom:1px solid var(--line);grid-template-columns:.15fr 1.1fr .55fr;gap:5vw;padding:56px 0;display:grid}.work-number,.work-result>span,.work-skills span,.work-result small,.tool-strip>p{font-family:var(--font-space-mono), monospace}.work-number{font-size:.76rem}.work-main h3{letter-spacing:-.04em;max-width:720px;margin:0;font-size:clamp(1.6rem,2.65vw,3rem);line-height:1.12}.work-main>p{max-width:700px;color:var(--muted);margin:24px 0;line-height:1.72}.work-skills{flex-wrap:wrap;gap:7px;display:flex}.work-skills span{background:var(--paper);padding:6px 9px;font-size:.58rem}.work-result{flex-direction:column;align-items:flex-start;display:flex}.work-result>span{letter-spacing:.13em;font-size:.6rem}.work-result>p{margin:16px 0 28px;font-weight:700;line-height:1.5}.work-result a{border-bottom:1px solid var(--ink);gap:9px;margin-top:auto;padding-bottom:6px;font-size:.76rem;font-weight:750;display:inline-flex}.work-result small{color:var(--muted);margin-top:auto;font-size:.58rem;line-height:1.5}.capabilities{background:var(--paper)}.section-heading.compact{grid-template-columns:.42fr 1.65fr}.capability-grid{border-top:1px solid var(--line);border-left:1px solid var(--line);grid-template-columns:repeat(3,1fr);display:grid}.capability-grid article{border-right:1px solid var(--line);border-bottom:1px solid var(--line);min-height:290px;padding:28px;transition:background .24s,transform .24s}.capability-grid article:hover{z-index:2;background:var(--ink);color:var(--paper);position:relative;transform:translateY(-6px)}.capability-grid article>span{font-family:var(--font-space-mono), monospace;font-size:.62rem}.capability-grid h3{letter-spacing:-.04em;margin:72px 0 16px;font-size:clamp(1.4rem,2vw,2rem)}.capability-grid p{color:var(--muted);margin:0;font-size:.9rem;line-height:1.65}.capability-grid article:hover p{color:#c7c7c7}.tool-strip{grid-template-columns:.42fr 1.65fr;align-items:start;gap:5vw;margin-top:70px;display:grid}.tool-strip>p{letter-spacing:.12em;margin:0;font-size:.62rem;line-height:1.5}.tool-strip>div{flex-wrap:wrap;gap:10px;display:flex}.tool-strip span{border:1px solid var(--ink);border-radius:100px;padding:9px 14px;font-size:.78rem}.approach{background:var(--white)}.approach-intro{grid-template-columns:.42fr 1.65fr;gap:5vw;margin-bottom:90px;display:grid}.steps{border-top:1px solid var(--line);margin-left:calc(21% + 5vw)}.steps article{border-bottom:1px solid var(--line);grid-template-columns:90px 1fr;gap:20px;padding:38px 0;display:grid}.steps article>span{font-family:var(--font-space-mono), monospace;font-size:.65rem}.steps h3{margin:0 0 12px;font-size:1.3rem}.steps p{max-width:640px;color:var(--muted);margin:0;line-height:1.65}blockquote{text-align:center;letter-spacing:-.055em;max-width:1100px;margin:130px auto 0;padding:0;font-size:clamp(2rem,4.2vw,4.8rem);font-weight:650;line-height:1.1}blockquote:before{content:"“";color:var(--ink);font-size:1.4em;line-height:.7;display:block}.contact{background:var(--ink);color:var(--paper);padding-bottom:32px}.contact h2{max-width:1200px}.contact-body{color:#b8b8b8;max-width:700px;margin:38px 0 0;font-size:1.05rem;line-height:1.75}.contact-actions{justify-content:space-between;align-items:center;gap:30px;margin-top:64px;padding-bottom:90px;display:flex}.pending-contact{color:#b8b8b8;font-family:var(--font-space-mono), monospace;align-items:center;gap:12px;font-size:.66rem;display:flex}.pending-contact i{background:var(--paper);border-radius:50%;width:8px;height:8px}.button-light{background:var(--paper);color:var(--ink)}.button-light:hover{background:#dcdcdc}footer{font-family:var(--font-space-mono), monospace;border-top:1px solid #fff3;grid-template-columns:1fr auto auto;align-items:end;gap:48px;padding-top:28px;font-size:.6rem;display:grid}.footer-name{flex-direction:column;gap:7px;display:flex}.footer-name strong{color:var(--paper);letter-spacing:.08em}.footer-name span{color:#888}.reveal{animation:.8s cubic-bezier(.22,.72,.21,1) both reveal-up}.delay-2{animation-delay:.18s}@keyframes reveal-up{0%{opacity:0;transform:translateY(28px)}to{opacity:1;transform:translateY(0)}}@media (width<=900px){.site-header{grid-template-columns:1fr auto;height:64px;padding:0 20px}.site-header nav{display:none}.hero{grid-template-columns:1fr;gap:55px;padding:138px 24px 86px}.hero:before{top:90px;right:-220px}.hero-grid{inset-top:64px;background-size:72px 72px}.hero-content{align-self:auto}.hero-actions{flex-direction:column;align-items:flex-start;gap:18px}.system-map{grid-template-columns:repeat(3,1fr);display:grid}.system-node{grid-template-columns:1fr;align-content:start}.system-node i{width:calc(100% - 38px);height:1px;top:39px;left:42px}.scroll-hint{display:none}.section{padding:90px 24px}.profile,.section-heading,.section-heading.compact,.approach-intro,.tool-strip{grid-template-columns:1fr}.profile{gap:38px}.profile-mark{opacity:.12;position:absolute;bottom:50px;right:-15px}.section-heading{gap:18px}.work-item{grid-template-columns:45px 1fr;gap:20px}.work-result{grid-column:2;padding-top:15px}.work-result small,.work-result a{margin-top:8px}.capability-grid{grid-template-columns:repeat(2,1fr)}.tool-strip{gap:24px}.steps{margin-left:0}blockquote{margin-top:90px}.contact-actions{flex-direction:column;align-items:flex-start}}@media (width<=560px){h1{font-size:clamp(3rem,14vw,4.6rem)}.hero-intro{margin-top:28px}.system-map{gap:8px}.system-node{gap:10px}.system-node p{font-size:.68rem}.system-node i{width:calc(100% - 26px);left:34px}.work-item{grid-template-columns:1fr}.work-number,.work-result{grid-column:1}.capability-grid{grid-template-columns:1fr}.capability-grid article{min-height:240px}.capability-grid h3{margin-top:48px}.steps article{grid-template-columns:52px 1fr}.contact-actions .button{width:100%}footer{grid-template-columns:1fr auto;gap:26px}footer>a{display:none}}@media (prefers-reduced-motion:reduce){html{scroll-behavior:auto}*,:before,:after{transition-duration:.01ms!important;animation-duration:.01ms!important;animation-iteration-count:1!important}}
